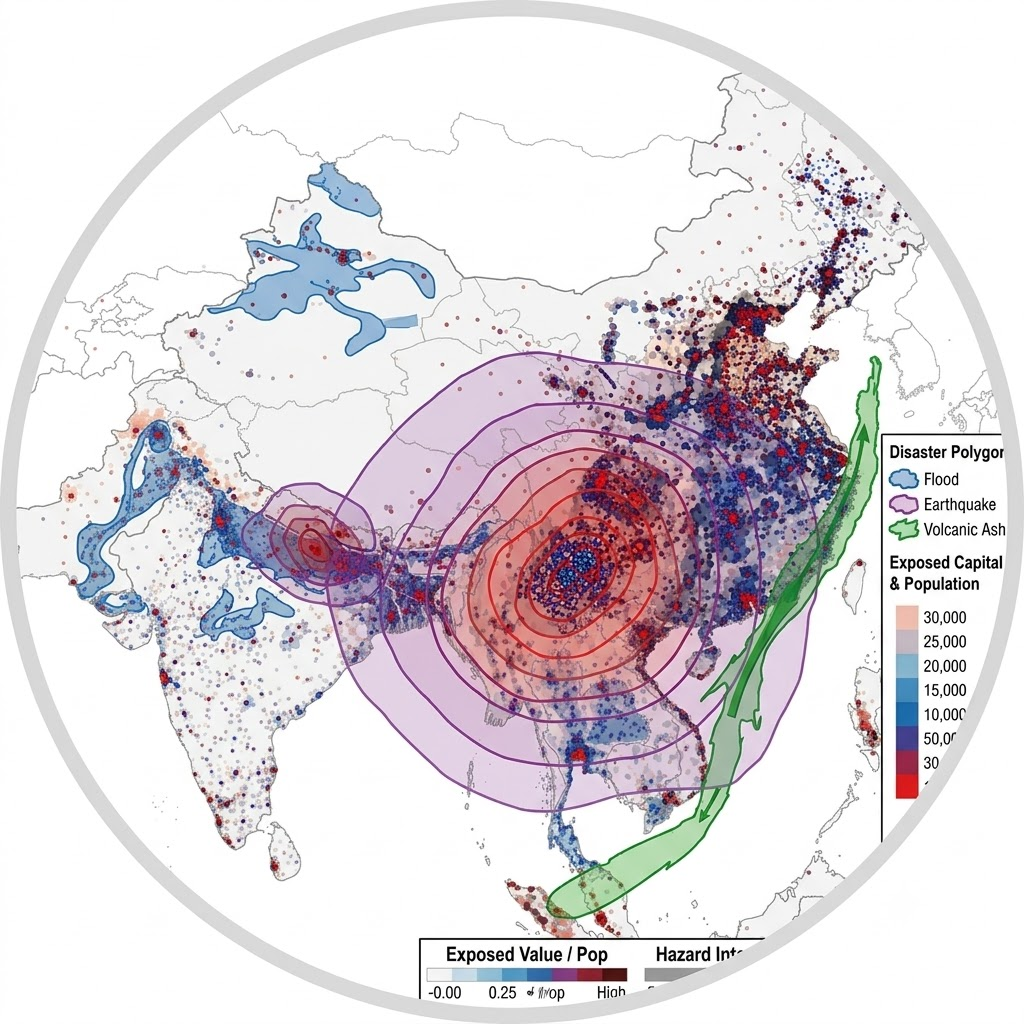
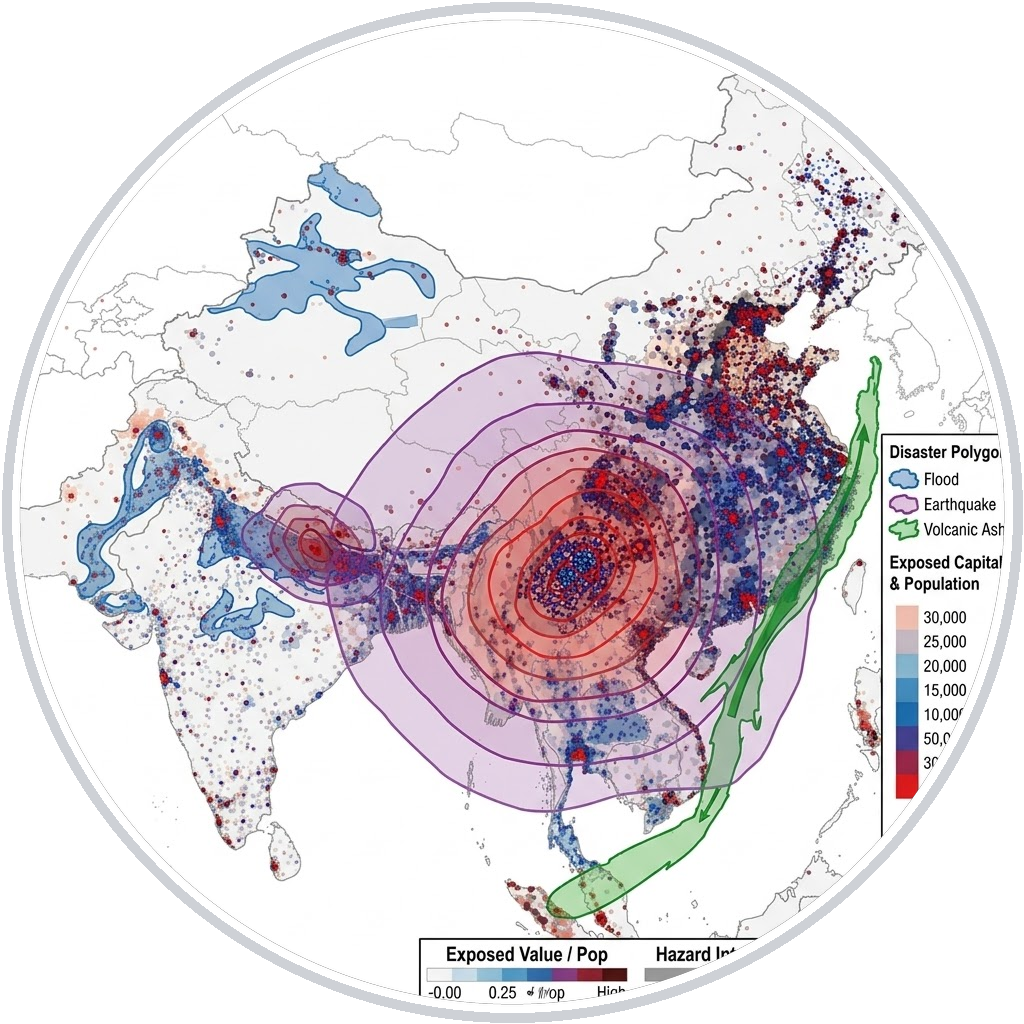
update data&methodology page

diff --git a/src/routes/datamethodology.tsx b/src/routes/datamethodology.tsx
@@ -12,23 +12,24 @@ export const Route = createFileRoute('/datamethodology')({
 })
 
 function RouteComponent() {
-    return <div className={`absolute flex justify-center overflow-auto w-full mix-blend-hard-light bg-[#000A5720] bg-fixed transition-all `} style={{ backgroundImage: `url(${MenuBackground})` }}>
+    const hub = (slug: string) => `https://geopulse-data-imf-dataviz.hub.arcgis.com/datasets/imf-dataviz::${slug}/explore`
+    const linkCls = 'w-fit underline underline-offset-2 text-[#9ec5ff] hover:text-white'
+    return <div className={`absolute flex justify-center overflow-auto w-full bg-[#1a2868] bg-fixed transition-all `} style={{ backgroundImage: `linear-gradient(90deg, rgba(26,40,104,0.95) 0%, rgba(26,40,104,0.95) 52%, rgba(26,40,104,0.74) 100%), url(${MenuBackground})`, backgroundSize: 'cover' }}>
         <div className="flex py-15 flex-col items-center lg:items-start max-w-350 w-9/10 text-left text-white">
-            <section className='pt-14.75 text-[26px] w-full max-w-174 font-bold'>Access the data that powers GeoPulse</section>
-            <div className='flex flex-col gap-y-7'>
+            <section className='pt-14.75 text-[34px] leading-tight tracking-[-0.01em] w-full max-w-250 font-bold'>Access the data that powers GeoPulse</section>
+            <div className='flex flex-col gap-y-7 w-full max-w-250'>
                 <div className='flex flex-col gap-x-20 gap-y-5 leading-[21px] pt-10'>
-                    <p className='text-[16px] max-w-250'>GeoPulse maps where people and assets meet climate and disaster risks. Three families of open data sit behind it: the IMF’s own high-resolution gridded macroeconomic layers, near-real-time disaster events, and forward-looking climate exposure indicators. Explore them in the app, download them, or pull them live through the API. Sources, methods, and citations for each are below.</p>
+                    <p className='text-[18px]'>GeoPulse maps where people and assets meet climate and disaster risks. Three families of open data sit behind it: the IMF’s own high-resolution gridded macroeconomic layers, near-real-time disaster events, and forward-looking climate exposure indicators. Explore them in the app, download them, or pull them live through the API. Sources, methods, and citations for each are below.</p>
 
-                    <span className='text-[22px]'><strong>Imagery layers </strong>(raster files 1km grid)</span>
+                    <span className='text-[24px]'><strong>Imagery layers </strong><span className='text-white/60'>(raster files 30 arc-second)</span></span>
                 </div>
                 <div className='flex flex-col lg:flex-row gap-y-15'>
-                    <div className='w-full flex justify-center'>
+                    <div className='w-full'>
                         <div className="w-full flex flex-col gap-y-7 text-[16px]">
                             <div className='flex flex-col gap-y-6'>
                                 <p>The IMF-produced exposure layers GeoPulse is built on: global rasters on a 30 arc-second (~1 km) grid showing where economic output is generated and where physical capital sits. Pair them with a hazard layer to see what’s in harm’s way or use them directly in your own GIS.</p>
                                 <p>Only these IMF-generated layers (Gridded GDP and Gridded Capital Stock) are available to download here. The other exposure layers GeoPulse draws on (population, cropland, livestock, buildings) are produced by third parties; please obtain those from their original sources, listed in the relevant indicators’ methodology descriptions. Imagery layers are provided as direct GeoTIFF downloads and are not available through the API.</p>
                             </div>
-                            <div className='w-full border-1 border-solid' ></div>
                             <div className='flex flex-wrap xl:flex-nowrap flex-row gap-x-15 gap-y-15'>
                                 <div className='flex flex-col gap-y-4 items-center justify-start xl:w-5/10'>
                                     <strong>Gridded Capital Stock</strong>
@@ -45,9 +46,9 @@ function RouteComponent() {
                                         </div>
                                         <div className='flex flex-col'>
                                             <strong>Data:&nbsp;</strong>
-                                            <span><i>Global raster, 30 arc-second (~1 km at the equator), WGS84 (EPSG:4326). Download the .zip file with the total total physical capital stock and individual files for residential vs. non-residential.</i></span>
+                                            <span><i>Global raster, 30 arc-second (~1 km at the equator), WGS84 (EPSG:4326). Download the .zip file with the total physical capital stock and individual files for residential vs. non-residential.</i></span>
                                         </div>
-                                        <Button className='h-7 bg-(--accentblue-60) rounded-md'>Download GeoTIFF</Button>
+                                        <Button className='h-7 bg-(--accentblue-60) text-[#0a1240] font-semibold rounded-md'>Download GeoTIFF</Button>
                                     </div>
                                 </div>
                                 <div className='flex flex-col gap-y-4 items-center xl:w-5/10'>
@@ -67,7 +68,7 @@ function RouteComponent() {
                                             <strong>Data:&nbsp;</strong>
                                             <span>Global ~1 km rasters, WGS84, reconciled to WEO national totals. Download the .zip file with the total GDP and the ten industry layers <i>(Agriculture (AGR); Mining & Oil and Gas (MIN); Manufacturing (MAN); Construction (CON); Transportation & Warehousing (TRAN); Trade (TRAD); Finance, Insurance & Real Estate (FIN); Government & Public Administration (GOV); Public Services (PUB); Other Industries (OTH))</i> GeoTIFF files.</span>
                                         </div>
-                                        <Button className=' h-7 bg-(--accentblue-60) rounded-md'>Download GeoTIFFs</Button>
+                                        <Button className=' h-7 bg-(--accentblue-60) text-[#0a1240] font-semibold rounded-md'>Download GeoTIFFs</Button>
                                     </div>
                                 </div>
                             </div>
@@ -76,26 +77,24 @@ function RouteComponent() {
 
                 </div>
                 <div className='flex flex-col gap-y-15'>
-                    <div className='flex flex-col'>
-                        <span className='text-[22px]'><strong>Events layer </strong>(polygons)</span>
-                        <div className='flex flex-col  items-center xl:flex-row gap-6'>
-                            <div className='flex justify-center xl:justify-start h-full w-full xl:w-3/10'>
-                                <img src={Events} width={150}></img>
+                    <div className='w-full border-t border-white/30'></div>
+                    <div className='flex flex-col gap-y-5'>
+                        <span className='text-[24px]'><strong>Events layer </strong><span className='text-white/60'>(polygons)</span></span>
+                        <div className='flex flex-col  items-center xl:flex-row gap-6 xl:gap-14'>
+                            <div className='flex justify-center xl:justify-start h-full shrink-0'>
+                                <img src={Events} className='w-[150px] h-[150px] rounded-full object-cover shrink-0'></img>
                             </div>
                             <div className='w-full xl:w-7/10'>
-                                <p>GeoPulse draws its disaster events from the Global Disaster Alert and Coordination System (GDACS), a joint EC-JRC and UN OCHA service. For each event (earthquakes, tropical cyclones, floods, volcanic eruptions, droughts and more), GDACS publishes the affected-area polygons (earthquake shaking contours, cyclone wind-impact swaths, flood footprints, ash plumes), refreshed as new advisories arrive. We overlay these on our exposure layers inside each country’s borders to estimate the population, buildings, GDP, urban GDP and cropland (plus the airports and ports) caught within the affected area, updating the estimates as new advisories arrive and the disaster polygons are refined. The result is the per-event, per-country exposure shown on each Event Card.</p>
+                                <p>GeoPulse draws its disaster events from the <a className={linkCls} href="https://www.gdacs.org/" target="_blank" rel="noopener noreferrer">Global Disaster Alert and Coordination System (GDACS)</a>, a joint EC-JRC and UN OCHA service. For each event (earthquakes, tropical cyclones, floods, volcanic eruptions, droughts and more), GDACS publishes the affected-area polygons (earthquake shaking contours, cyclone wind-impact swaths, flood footprints, ash plumes), refreshed as new advisories arrive. We overlay these on our exposure layers inside each country’s borders to estimate the population, buildings, GDP, urban GDP and cropland (plus the airports and ports) caught within the affected area, updating the estimates as new advisories arrive and the disaster polygons are refined. The result is the per-event, per-country exposure shown on each Event Card.</p>
                             </div>
                         </div>
 
                     </div>
-                    <div className='w-full border-1 border-solid' ></div>
 
-                    <div className='w-full flex justify-center'>
+                    <div className='w-full'>
                         <div className="w-full flex flex-col gap-y-7 text-[16px]">
-                            <div className='flex flex-col gap-y-6'>
-                            </div>
                             <div className='flex flex-wrap xl:flex-nowrap flex-row gap-x-15 gap-y-15'>
-                                <div className='flex flex-col gap-y-4 items-center justify-start xl:w-5/10'>
+                                <div className='flex flex-col gap-y-4 w-full'>
                                     <div className='flex flex-col gap-y-4'>
                                         <div className='flex flex-col'>
                                             <strong>Papers:&nbsp;</strong>
@@ -110,8 +109,8 @@ function RouteComponent() {
                                             <span><i>Per-event hazard polygons with attached exposure attributes (population, buildings, GDP, urban GDP, cropland, airports, ports) by country. Refreshed daily as new GDACS advisories arrive. Download event exposure tables or connect live through the ArcGIS REST API.</i></span>
                                         </div>
                                         <div className='flex flex-col xl:flex-row gap-3'>
-                                            <Button className='h-7 bg-(--accentblue-60) rounded-md'>View Details and Download</Button>
-                                            <Button className='h-7 bg-(--accentblue-60) rounded-md'>Access API</Button>
+                                            <Button className='h-7 bg-(--accentblue-60) text-[#0a1240] font-semibold rounded-md'>View Details and Download</Button>
+                                            <Button className='h-7 bg-(--accentblue-60) text-[#0a1240] font-semibold rounded-md'>Access API</Button>
                                         </div>
                                     </div>
                                 </div>
@@ -119,22 +118,17 @@ function RouteComponent() {
                             </div>
                         </div>
                     </div>
+                    <div className='w-full border-t border-white/30'></div>
                     <div className='flex flex-col gap-y-7'>
-                        <span className='text-[22px]'><strong>Forward-looking Hazard Exposure Indicators </strong></span>
-                        <div className='flex flex-col  items-center xl:flex-row gap-6'>
-
-                            <div className='w-full xl:w-7/10'>
-                                <p>How today’s people and assets would be exposed to tomorrow’s climate hazards. Each indicator pairs a hazard with an exposure layer, and computes exposure at country (ADM0) and sub-national (ADM1) level. ADM1 units are the first-level sub-national regions within a country, such as states, provinces or départements.</p>
-                            </div>
+                        <span className='text-[24px]'><strong>Forward-looking Hazard Exposure Indicators</strong></span>
+                        <div className='w-full'>
+                            <p>How today’s people and assets would be exposed to tomorrow’s climate hazards. Each indicator pairs a hazard with an exposure layer, and computes exposure at country (ADM0) and sub-national (ADM1) level. ADM1 units are the first-level sub-national regions within a country, such as states, provinces or départements.</p>
                         </div>
-                        <div className='w-full border-1 border-solid' ></div>
                     </div>
-                    <div className='w-full flex justify-center'>
+                    <div className='w-full'>
                         <div className="w-full flex flex-col gap-y-7 text-[16px]">
-                            <div className='flex flex-col gap-y-6'>
-                            </div>
                             <div className='flex flex-wrap xl:flex-nowrap flex-row gap-x-15 gap-y-15'>
-                                <div className='flex flex-col gap-y-4 items-center justify-start xl:w-5/10'>
+                                <div className='flex flex-col gap-y-4 w-full'>
                                     <div className='flex flex-col gap-y-4'>
                                         <div className='flex flex-col'>
                                             <strong>Papers:&nbsp;</strong>
@@ -146,7 +140,7 @@ function RouteComponent() {
                                         </div>
                                         <div className='flex flex-col'>
                                             <strong>Data:&nbsp;</strong>
-                                            <span><i>Country (ADM0) and sub-national (ADM1) indicator tables, one row per administrative unit × hazard dimension × climate scenario × time period, as downloadable tables, with interactive choropleth maps and time series in the app.</i></span>
+                                            <span><i>Country (ADM0) and sub-national (ADM1) indicator tables, one row per administrative unit × hazard dimension × climate scenario × time period, as downloadable tables, with interactive choropleth maps and time series in the <a className={linkCls} href="/#/compare" target="_blank" rel="noopener noreferrer">Forward-Looking view</a>.</i></span>
                                         </div>
                                         <div className='flex flex-col gap-y-5'>
                                             <strong>Browse indicators by hazard:&nbsp;</strong>
@@ -156,9 +150,9 @@ function RouteComponent() {
                                                         <img src={HazardTemperatureExtremes}></img>
                                                         <div>Temperature Extremes</div>
                                                     </div>
-                                                    <div className='flex flex-col'>
-                                                        <u>Population</u>
-                                                        <u>Livestock</u>
+                                                    <div className='flex flex-col gap-y-1'>
+                                                        <a className={linkCls} href={hub('population-weighted-mean-extreme-temperatures')} target="_blank" rel="noopener noreferrer">Population</a>
+                                                        <a className={linkCls} href={hub('livestock-weighted-mean-extreme-temperatures')} target="_blank" rel="noopener noreferrer">Livestock</a>
                                                     </div>
                                                 </div>
                                                 <div className='flex flex-col w-full'>
@@ -166,9 +160,8 @@ function RouteComponent() {
                                                         <img src={HazardTemperatureExtremes}></img>
                                                         <div>Drought</div>
                                                     </div>
-                                                    <div className='flex flex-col'>
-                                                        <u>Population</u>
-                                                        <u>Livestock</u>
+                                                    <div className='flex flex-col gap-y-1'>
+                                                        <a className={linkCls} href={hub('cropland-weighted-mean-drought-conditions')} target="_blank" rel="noopener noreferrer">Cropland</a>
                                                     </div>
                                                 </div>
                                                 <div className='flex flex-col w-full'>
@@ -176,9 +169,11 @@ function RouteComponent() {
                                                         <img src={HazardTemperatureExtremes}></img>
                                                         <div>Riverine Flooding</div>
                                                     </div>
-                                                    <div className='flex flex-col'>
-                                                        <u>Population</u>
-                                                        <u>Livestock</u>
+                                                    <div className='flex flex-col gap-y-1'>
+                                                        <a className={linkCls} href={hub('percent-of-population-exposed-to-riverine-flooding')} target="_blank" rel="noopener noreferrer">Population</a>
+                                                        <a className={linkCls} href={hub('percent-of-buildings-exposed-to-riverine-flooding')} target="_blank" rel="noopener noreferrer">Buildings</a>
+                                                        <a className={linkCls} href={hub('percent-of-gdp-exposed-to-riverine-flooding')} target="_blank" rel="noopener noreferrer">GDP</a>
+                                                        <a className={linkCls} href={hub('percent-of-urban-gdp-exposed-to-riverine-flooding')} target="_blank" rel="noopener noreferrer">Urban GDP</a>
                                                     </div>
                                                 </div>
                                                 <div className='flex flex-col w-full'>
@@ -186,13 +181,15 @@ function RouteComponent() {
                                                         <img src={HazardTemperatureExtremes}></img>
                                                         <div>Coastal Flooding</div>
                                                     </div>
-                                                    <div className='flex flex-col'>
-                                                        <u>Population</u>
-                                                        <u>Livestock</u>
+                                                    <div className='flex flex-col gap-y-1'>
+                                                        <a className={linkCls} href={hub('percent-of-population-exposed-to-coastal-flooding')} target="_blank" rel="noopener noreferrer">Population</a>
+                                                        <a className={linkCls} href={hub('percent-of-buildings-exposed-to-coastal-flooding')} target="_blank" rel="noopener noreferrer">Buildings</a>
+                                                        <a className={linkCls} href={hub('percent-of-gdp-exposed-to-coastal-flooding')} target="_blank" rel="noopener noreferrer">GDP</a>
+                                                        <a className={linkCls} href={hub('percent-of-urban-gdp-exposed-to-coastal-flooding')} target="_blank" rel="noopener noreferrer">Urban GDP</a>
                                                     </div>
                                                 </div>
                                             </div>
-                                            <div><i>Each indicator opens its dataset page, where you can view its details, download the ADM0 / ADM1 tables, or access it through the ArcGIS REST API.</i></div>
+                                            <div><i>Each indicator opens its dataset page, where you can view detailed methodology, download the data, or access it through the ArcGIS REST API.</i></div>
                                         </div>
 
                                     </div>
